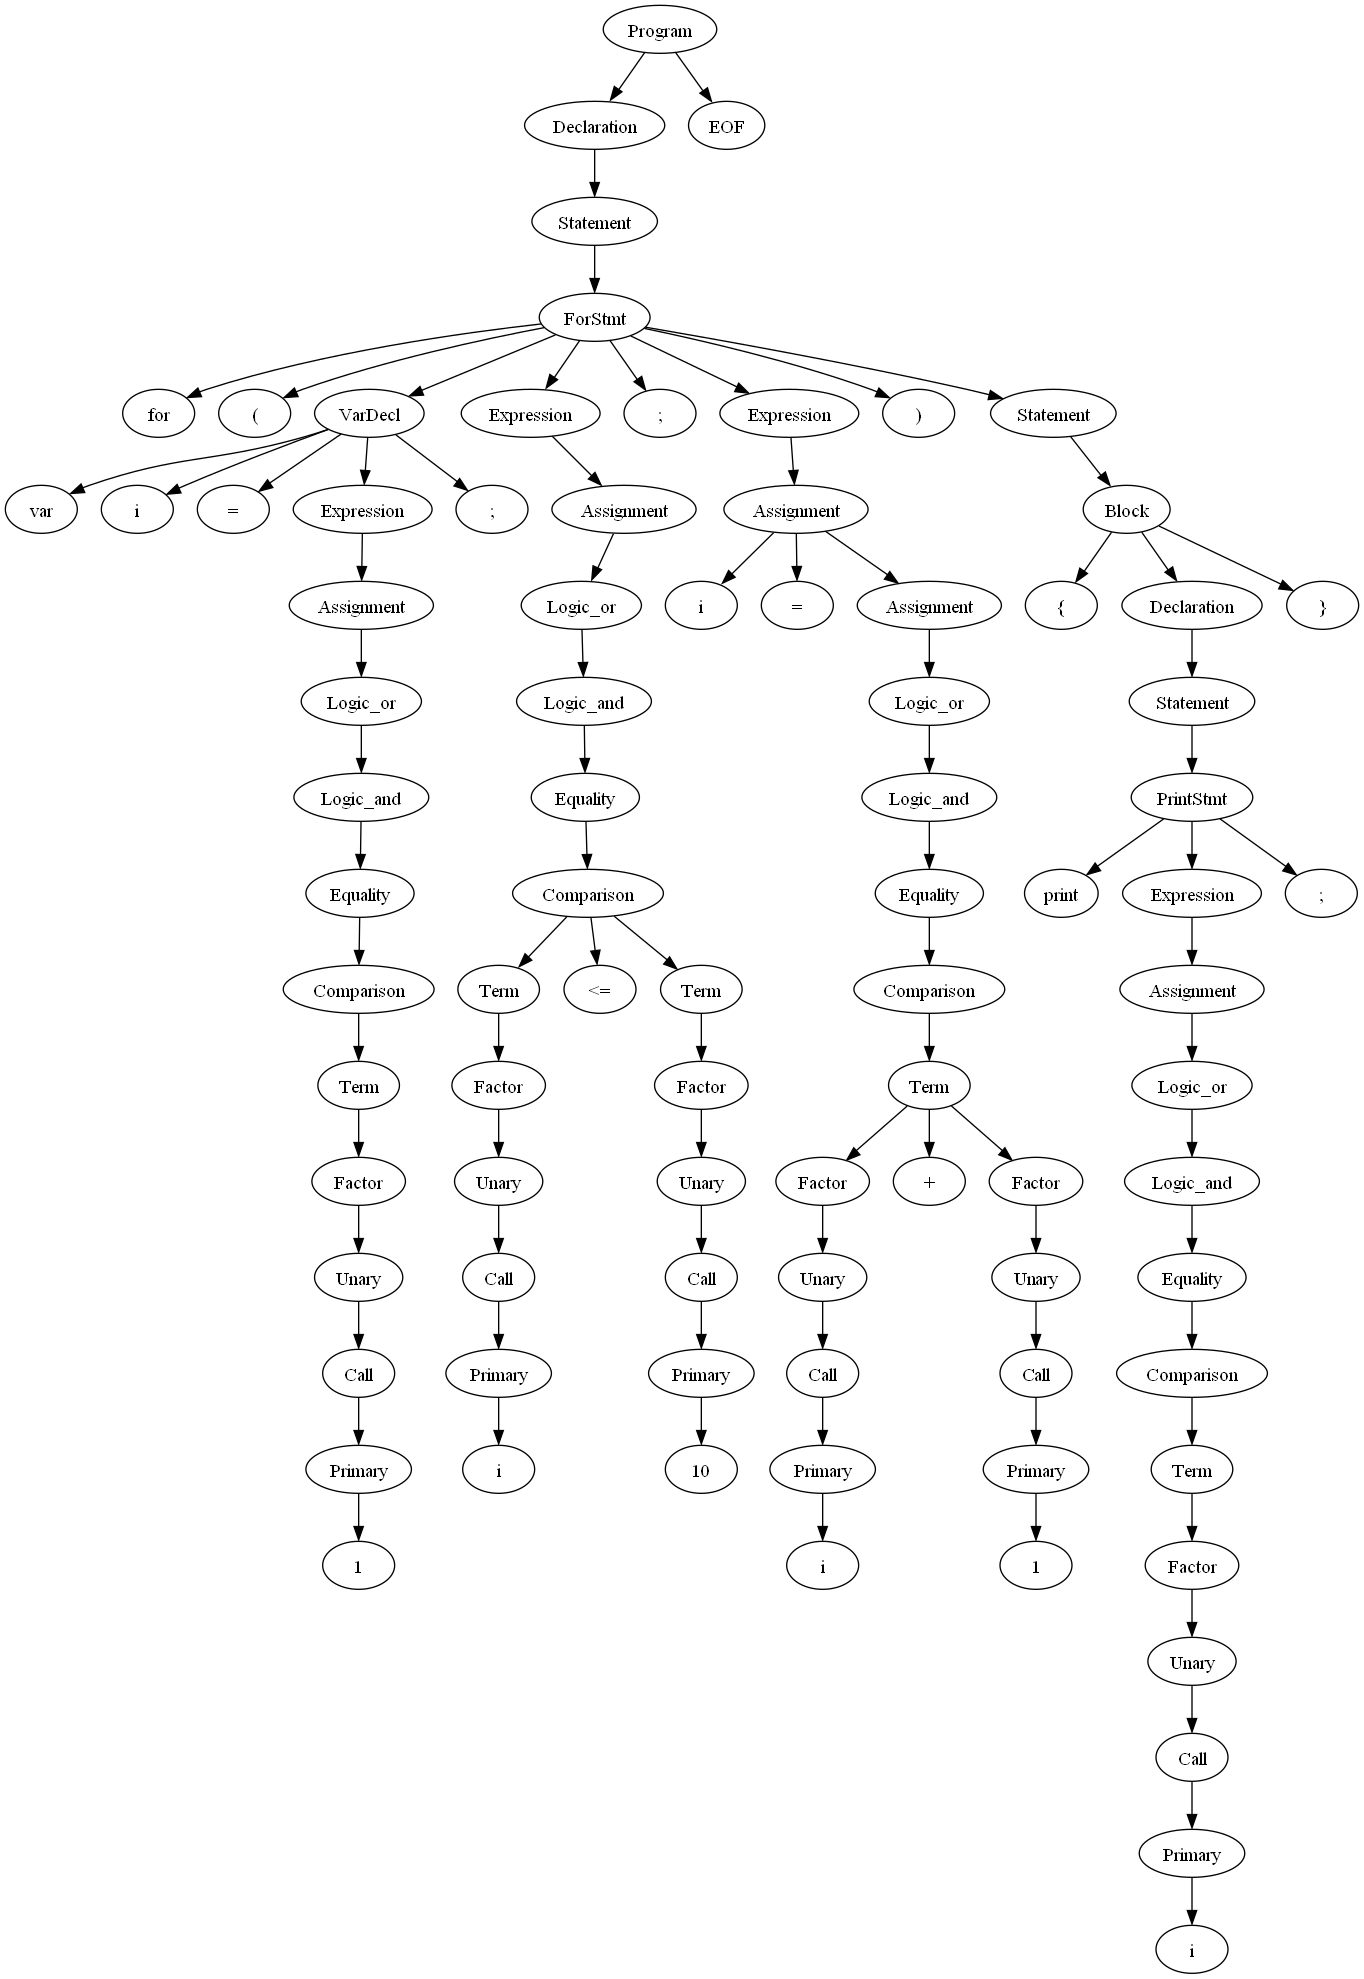
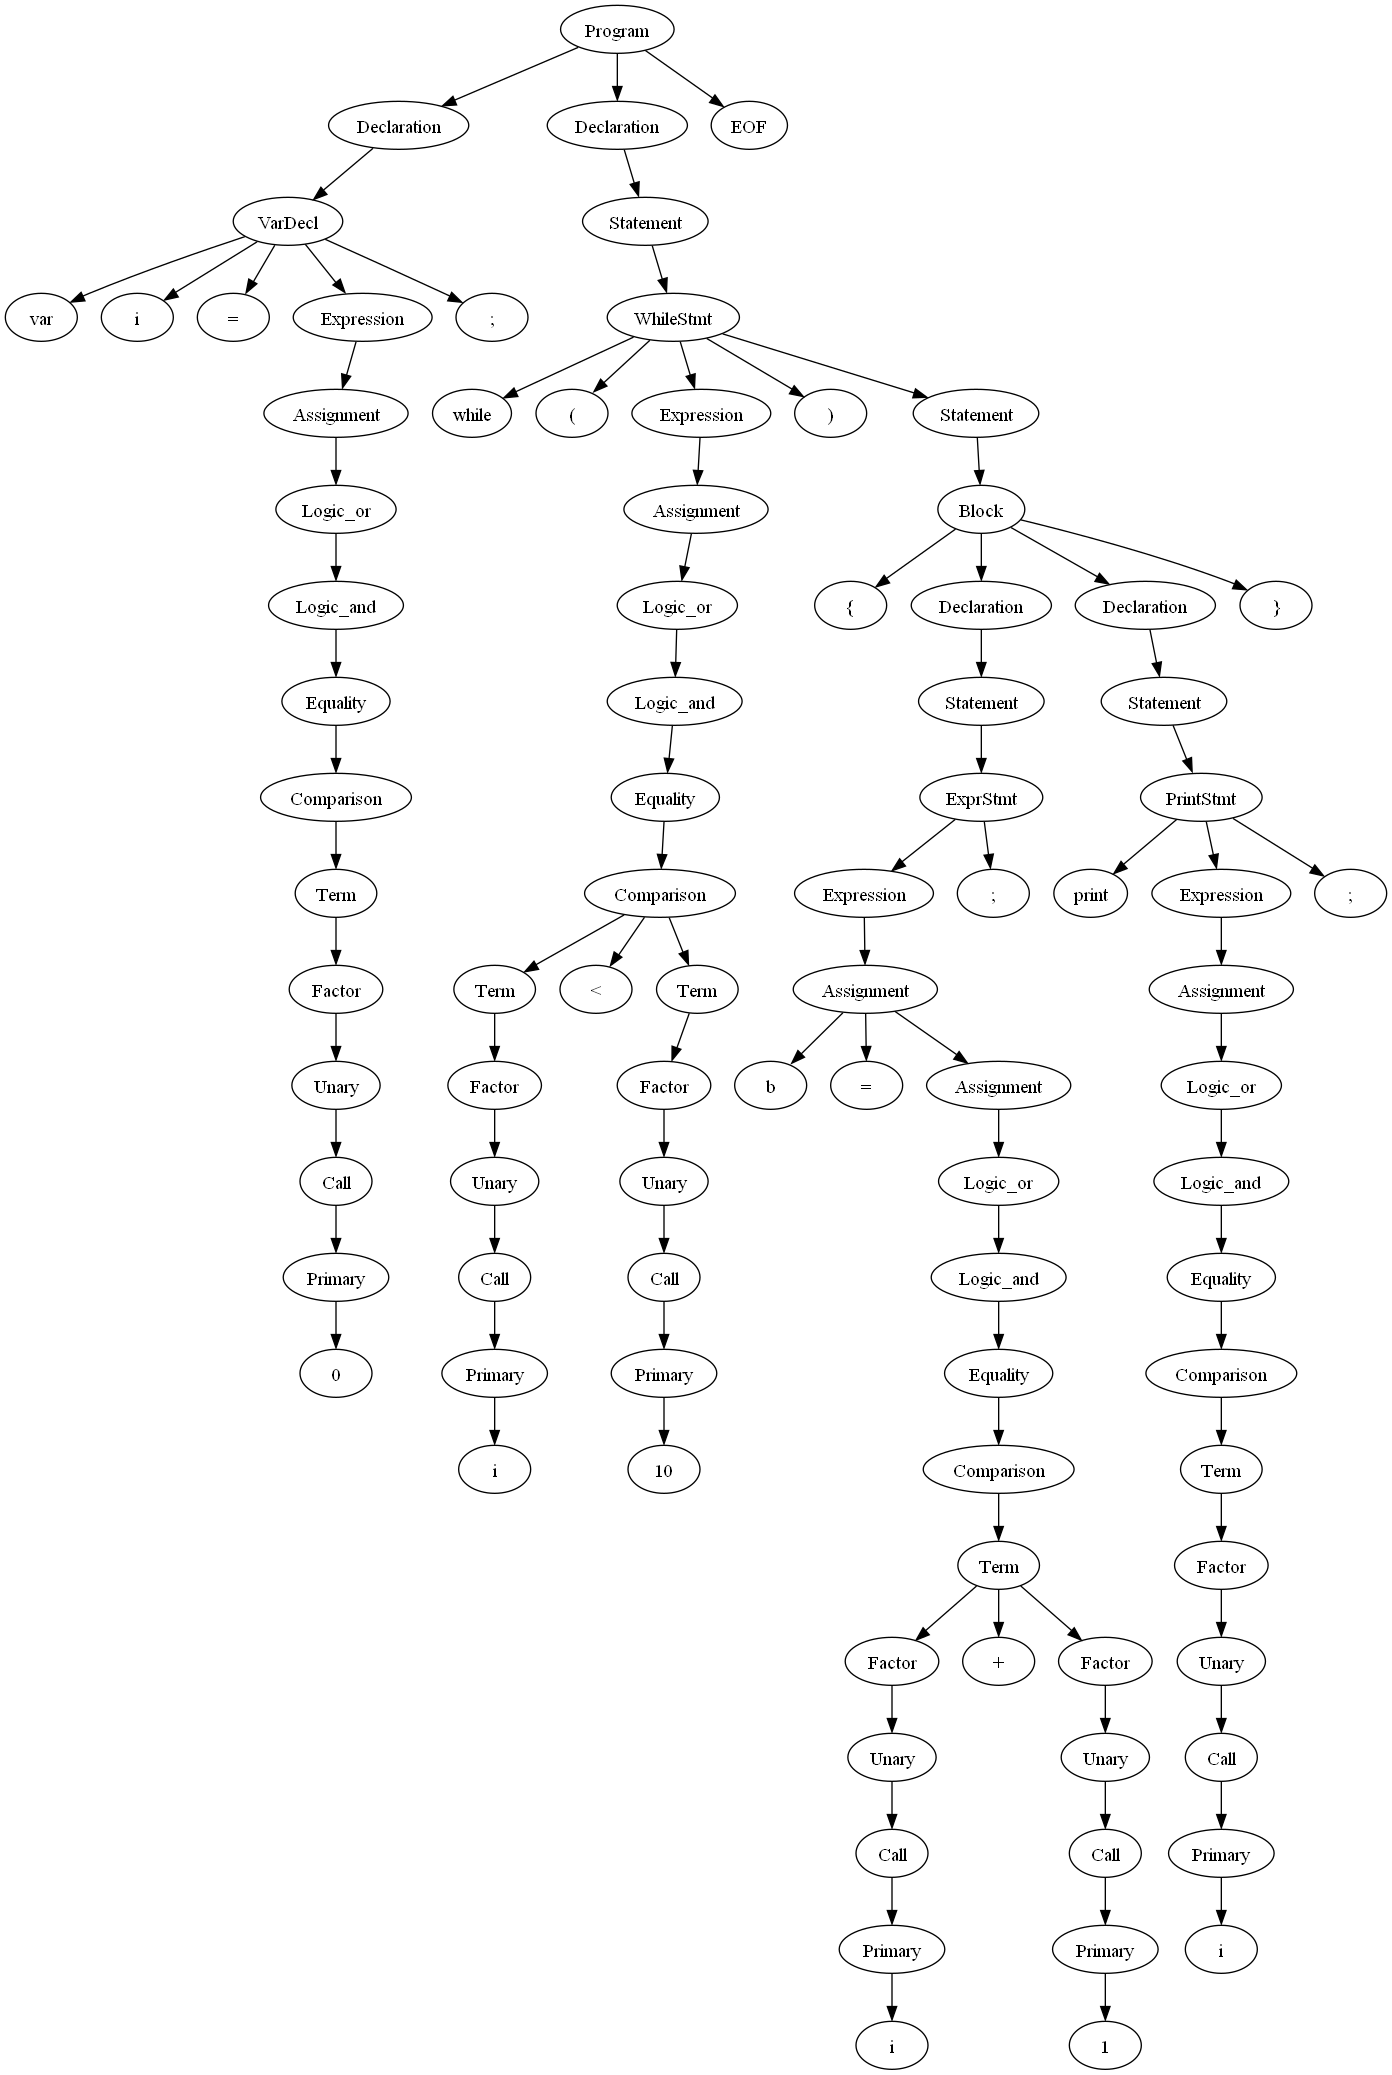
While Loop
- added support for while_loops analysis

*Missing calls instead of just bool condition

diff --git a/src/Controller/Driver.py b/src/Controller/Driver.py
@@ -63,6 +63,12 @@ class SemanticAnalyzer(compiscriptVisitor):
             self.logger.debug("Visiting for statement in statement")
             return self.visitForStmt(ctx.forStmt())
         
+        # Check if the statement is a while statement
+        elif ctx.whileStmt() is not None:
+            # Visit the while statement
+            self.logger.debug("Visiting while statement in statement")
+            return self.visitWhileStmt(ctx.whileStmt())
+        
         # Check if the statement is a block statement
         elif ctx.block() is not None:
             # Visit the block statement
@@ -117,6 +123,23 @@ class SemanticAnalyzer(compiscriptVisitor):
         self.logger.debug("Exited for loop scope")
         self.scope_manager.exit_scope()
 
+
+
+    def visitWhileStmt(self, ctx: compiscriptParser.WhileStmtContext):
+        self.logger.debug("Visiting while statement")
+
+        # Visit the condition expression
+        if ctx.expression() is not None:
+            self.logger.debug("Visiting condition expression in while loop")
+            condition_type = self.visitExpression(ctx.expression())
+            validate_boolean_expression_type(condition_type, " in while loop condition")
+        else:
+            raise Exception("While loop must have a condition expression.")
+
+        # Visit the body of the while loop
+        if ctx.statement() is not None:
+            self.logger.debug("Visiting body of while loop")
+            self.visitStatement(ctx.statement(), "While Loop")   
 
 
     def visitBlockStmt(self, ctx: compiscriptParser.BlockContext, scope_name=None):
